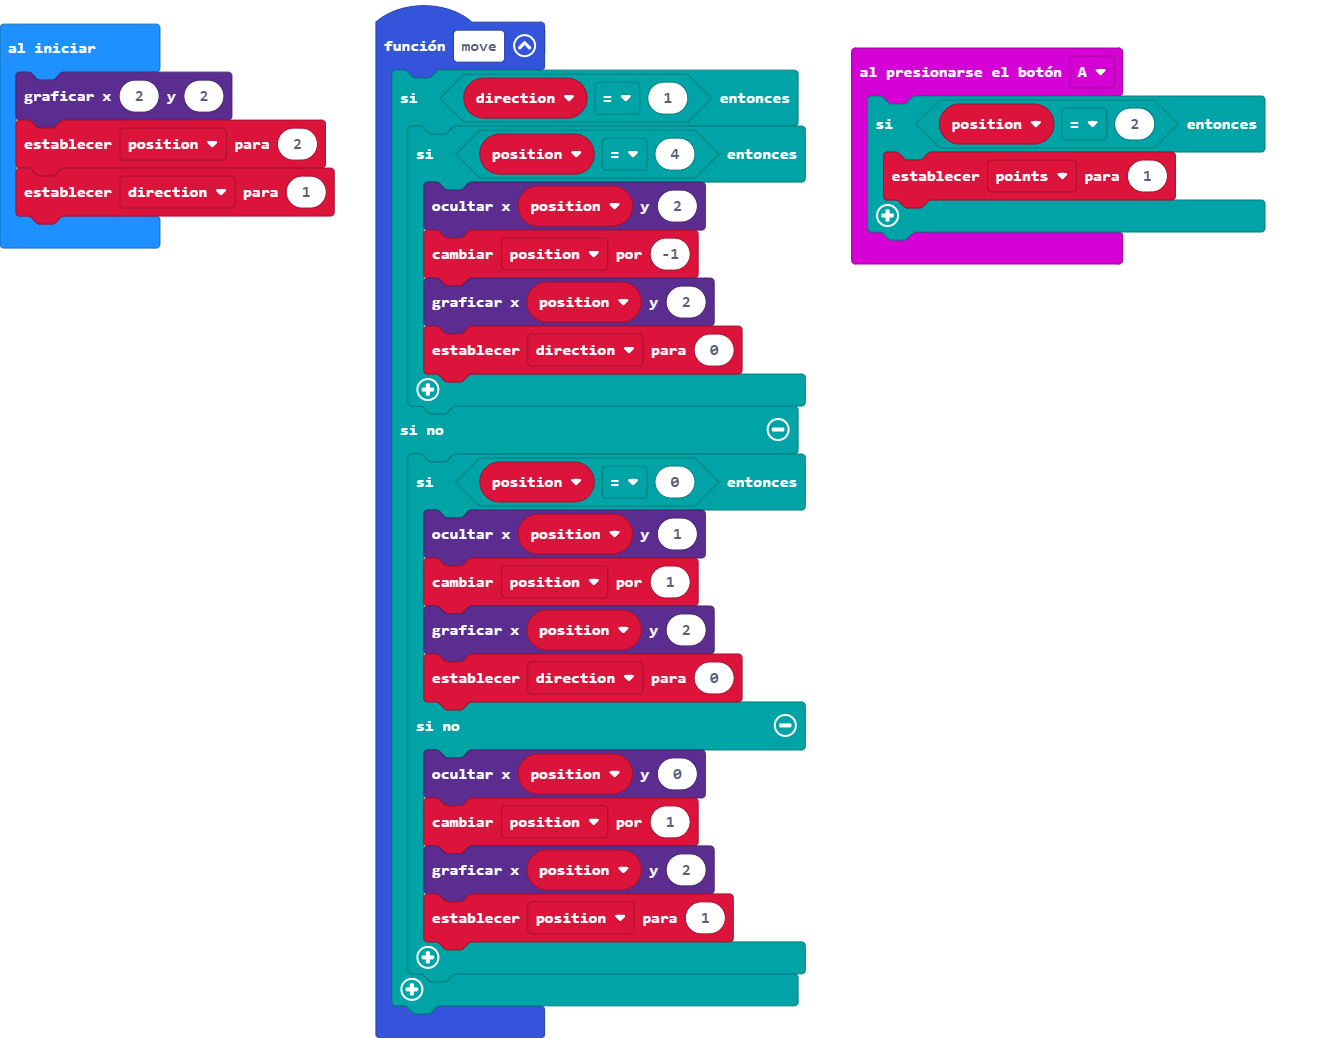
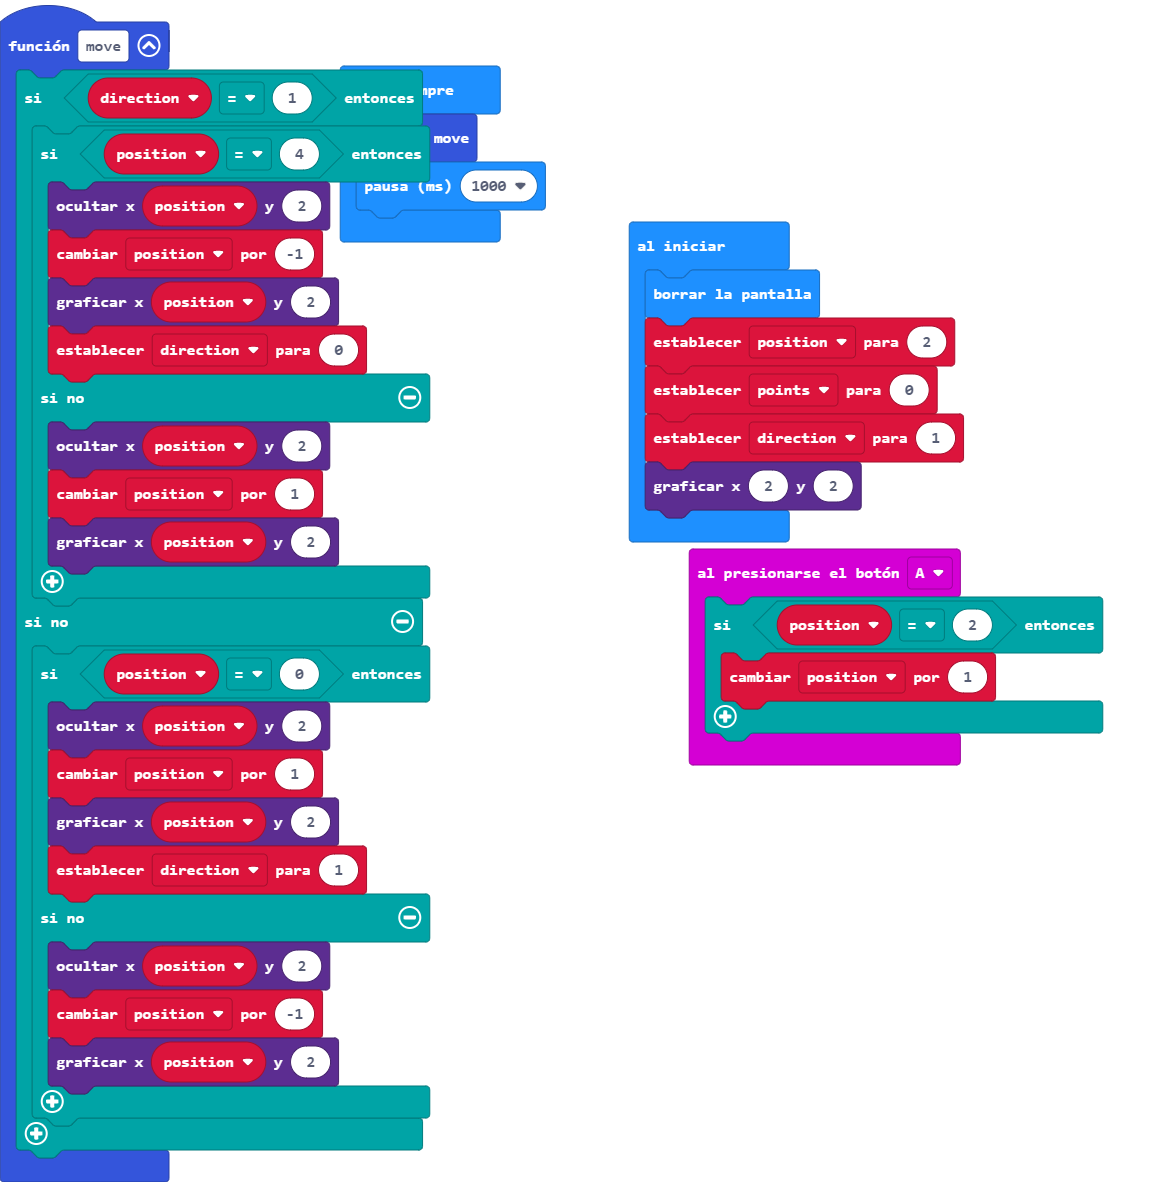
Actualizar main.blocks, main.ts

diff --git a/main.ts b/main.ts
@@ -1,6 +1,6 @@
 input.onButtonPressed(Button.A, function () {
     if (position == 2) {
-        points = 1
+        position += 1
     }
 })
 function move () {
@@ -10,24 +10,32 @@ function move () {
             position += -1
             led.plot(position, 2)
             direction = 0
+        } else {
+            led.unplot(position, 2)
+            position += 1
+            led.plot(position, 2)
         }
     } else {
         if (position == 0) {
-            led.unplot(position, 1)
+            led.unplot(position, 2)
             position += 1
             led.plot(position, 2)
-            direction = 0
+            direction = 1
         } else {
-            led.unplot(position, 0)
-            position += 1
+            led.unplot(position, 2)
+            position += -1
             led.plot(position, 2)
-            position = 1
         }
     }
 }
-let points = 0
 let direction = 0
 let position = 0
-led.plot(2, 2)
+basic.clearScreen()
 position = 2
+let points = 0
 direction = 1
+led.plot(2, 2)
+basic.forever(function () {
+    move()
+    basic.pause(1000)
+})
